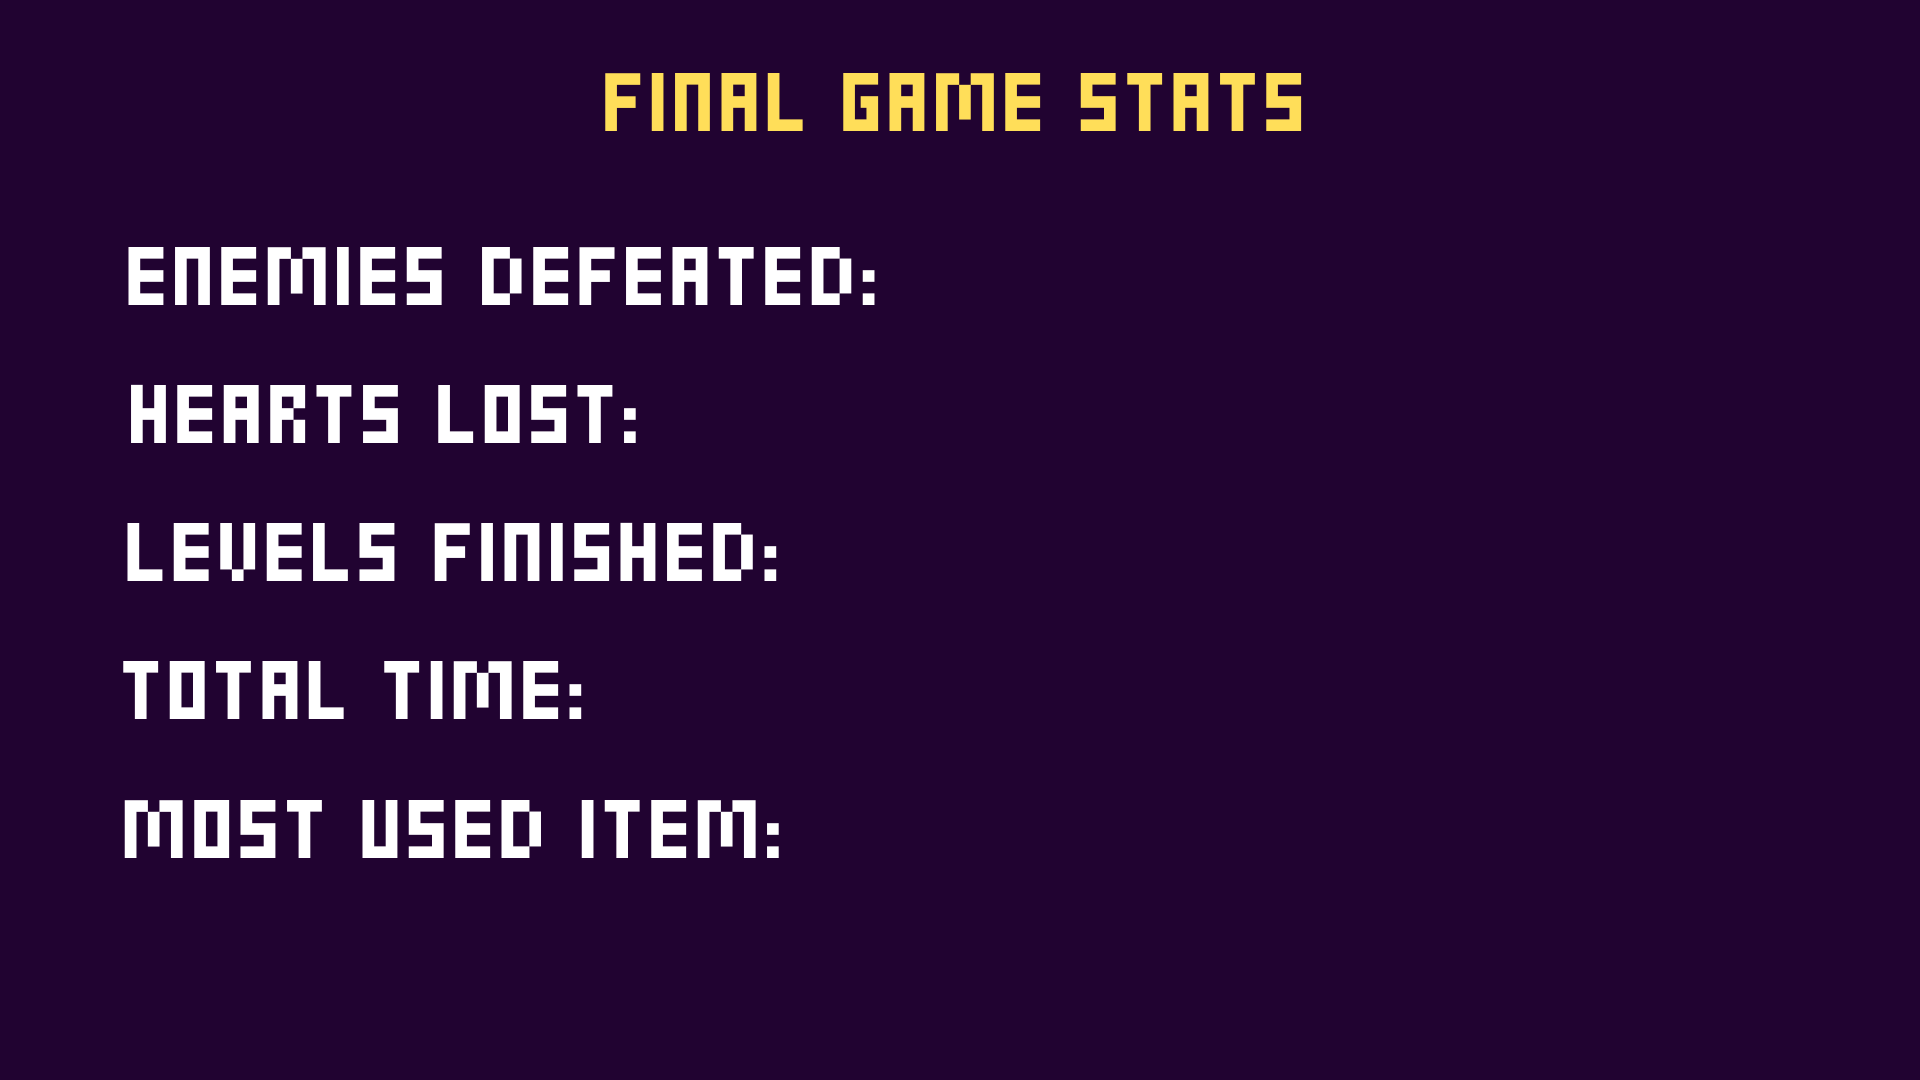
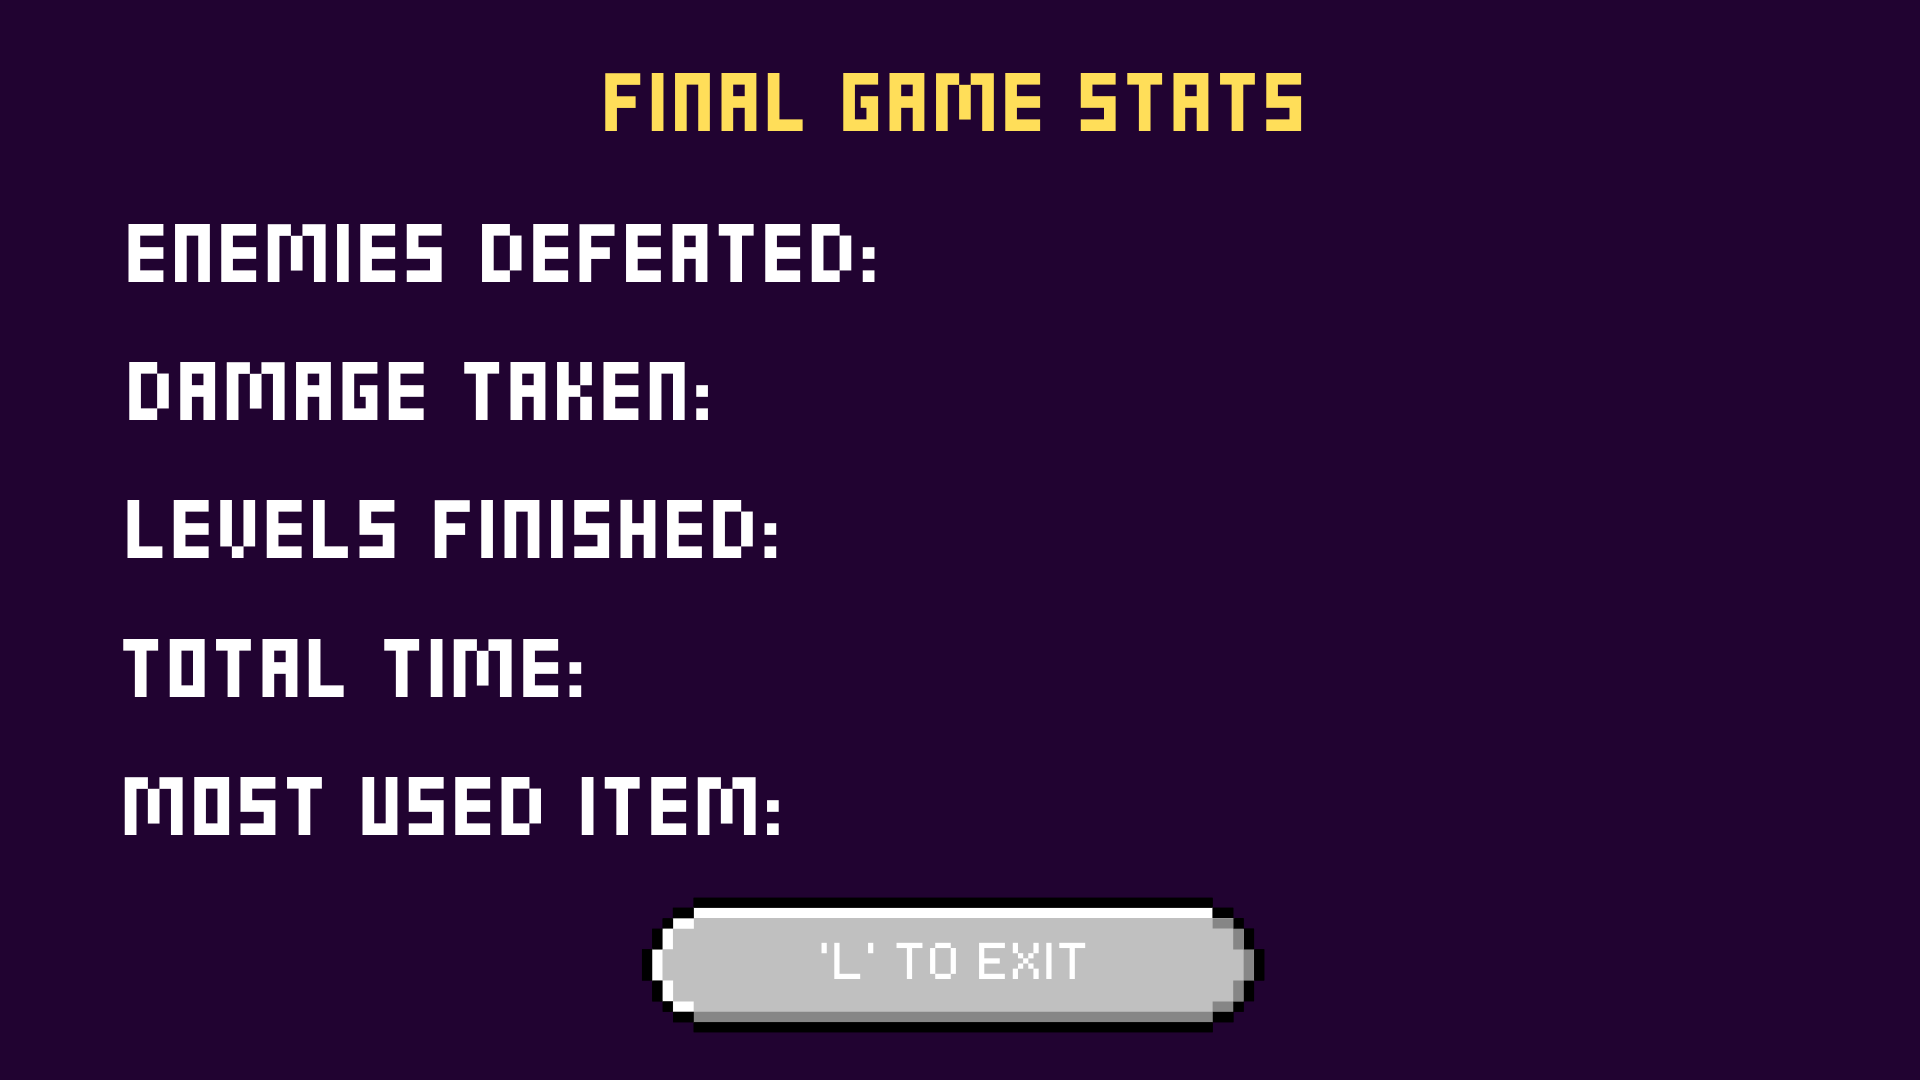
Updated stats screen, ending screen. Got rid of game over panel - there's now only a single game end panel.

diff --git a/src/Handlers/LevelHandler.java b/src/Handlers/LevelHandler.java
@@ -24,6 +24,11 @@ public class LevelHandler {
     int currentLevelIndex;
     MusicHandler musicHandler;
 
+    // Game stats
+    public static int enemiesKilled = 0;
+    public static double heartsLost = 0.0;
+    public static int levelsCompleted = 0;
+
     public boolean levelComplete = false;
 
     int numLevels;
@@ -123,10 +128,10 @@ public class LevelHandler {
 
     public void checkForDeath(Player player, CollisionHandler collisionHandler, InstantKill ghost, EternalSnail snail) {
         if(player.getHealth() <= 0) {
-            Main.updateGameState(3);
+            Main.updateGameState(4);
         }
         if(collisionHandler.enemyPlayerCollision(ghost, player) || collisionHandler.enemyPlayerCollision(snail, player) ) {
-            Main.updateGameState(3);
+            Main.updateGameState(4);
         }
     }
 
@@ -173,6 +178,7 @@ public class LevelHandler {
                 if(!levelComplete && currentLevel.doorUnlocked) {
                     levelComplete = true;
                     Main.gamePanel.pauseGame();
+                    LevelHandler.levelsCompleted++;
                     Main.updateGameState(7);
                 }
             }
@@ -186,12 +192,18 @@ public class LevelHandler {
 
         // Removes enemies if they die
         for (Enemy enemy: currentLevel.contactEnemies) {
-            if (enemy.getHealth() <= 0 && enemy.freezeTimer <= 0) currentLevel.enemiesToRemove.add(enemy);
+            if (enemy.getHealth() <= 0 && enemy.freezeTimer <= 0) {
+                currentLevel.enemiesToRemove.add(enemy);
+                enemiesKilled++;
+            }
         }
         currentLevel.contactEnemies.removeAll(currentLevel.enemiesToRemove);
 
         for (Enemy enemy: currentLevel.archerEnemies) {
-            if (enemy.getHealth() <= 0 && enemy.freezeTimer <= 0) currentLevel.archerEnemiesToRemove.add(enemy);
+            if (enemy.getHealth() <= 0 && enemy.freezeTimer <= 0) {
+                currentLevel.archerEnemiesToRemove.add(enemy);
+                enemiesKilled++;
+            }
         }
         currentLevel.archerEnemies.removeAll(currentLevel.enemiesToRemove);
     }
@@ -240,7 +252,7 @@ public class LevelHandler {
         levels[2] = new Level("Maps/Level3Map.json", "Assets/Tilesets/facilityTileset.png", nonWalkableValues3(), 16, 2);
         levels[3] = new Level("Maps/Level4Map.json", "Assets/Tilesets/catacombTileset.png", nonWalkableValues4(), 16, 3);
         levels[4] = new Level("Maps/Level5Map.json", "Assets/Tilesets/cuteTileset.png", nonWalkableValues5(), 16, 4);
-        levels[0] = new Level("Maps/Level6Map.json", "Assets/Tilesets/catacombTileset.png", nonWalkableValues6(), 16, 5);
+        levels[5] = new Level("Maps/Level6Map.json", "Assets/Tilesets/catacombTileset.png", nonWalkableValues6(), 16, 5);
 
     }
 

diff --git a/src/System/Main.java b/src/System/Main.java
@@ -13,12 +13,14 @@ public class Main {
      */
     public static GamePanel gamePanel;
     public static MenuPanel menuPanel;
-    public static GameOverPanel gameOverPanel = new GameOverPanel();
-    public static WinPanel winPanel = new WinPanel();
+    public static GameEndPanel gameEndPanel;
     public static HelpPanel helpPanel;
     public static CharacterSelectionPanel characterSelectionPanel;
     public static ShopPanel shopPanel;
     public static BuyPanel buyPanel;
+    public static StatsPanel statsPanel;
+
+    public static boolean gameWon = false;
 
     public static JFrame window = new JFrame();
 
@@ -59,10 +61,20 @@ public class Main {
                 if (start) gamePanel.initiateGamePanel();
                 break;
             case 3:
-                window.add(gameOverPanel);
+                statsPanel = new StatsPanel();
+                window.add(statsPanel);
+                statsPanel.requestFocusInWindow();
                 break;
             case 4:
-                window.add(winPanel);
+                Main.gamePanel.pauseGame(); // Pause game
+
+                // Display image based on win or lose
+                String img;
+                if (gameWon) img = "gameWon.png";
+                else img = "gameOver.png";
+                gameEndPanel = new GameEndPanel(img);
+                window.add(gameEndPanel);
+                gameEndPanel.requestFocusInWindow();
                 break;
             case 5:
                 helpPanel = new HelpPanel();

diff --git a/src/System/Panels/StatsPanel.java b/src/System/Panels/StatsPanel.java
@@ -1,0 +1,49 @@
+package System.Panels;
+
+import Handlers.LevelHandler;
+
+import java.awt.*;
+
+public class StatsPanel extends AbstractPanel {
+
+    // Get screen width and height
+    public static final int screenWidth = (int)Toolkit.getDefaultToolkit().getScreenSize().getWidth();
+    public static final int screenHeight = (int)Toolkit.getDefaultToolkit().getScreenSize().getHeight();
+
+    Font font = new Font("Courier", Font.PLAIN, 50);
+
+    /**
+     * Panel to show game stats
+     */
+    public StatsPanel() {
+        super("gameStats.png");
+    }
+
+    @Override
+    public void handleChoice() {
+        if (keyHandler.shopExit) {
+            timer.stop();
+            System.exit(0); // Exit game!
+        }
+
+    }
+
+    @Override
+    public void addButtonsToArrayList() {}
+
+    @Override
+    public void paintComponent(Graphics g) {
+
+        // Draws the fullscreen menu image
+        Graphics2D g2 = (Graphics2D) g;
+        g2.drawImage(bgImage, 0, 0, screenWidth, screenHeight, null);
+
+        g2.setPaint(Color.WHITE);
+        g2.setFont(font);
+        g2.drawString(String.valueOf(LevelHandler.enemiesKilled), screenWidth/2, screenHeight/4);
+        g2.drawString(String.valueOf(LevelHandler.heartsLost), screenWidth/2, screenHeight/4 + screenHeight/8);
+        g2.drawString(String.valueOf(LevelHandler.levelsCompleted), screenWidth/2, screenHeight/4 + screenHeight/8 * 2);
+        // TOTAL TIME
+        // FAV ITEM
+    }
+}

diff --git a/src/Handlers/Attacks/DamageDealer.java b/src/Handlers/Attacks/DamageDealer.java
@@ -4,6 +4,7 @@ import Attacks.Attack;
 import Entities.Enemies.Enemy;
 import Entities.Players.Player;
 import Handlers.CollisionHandler;
+import Handlers.LevelHandler;
 import World.Level;
 
 import java.util.ArrayList;
@@ -28,6 +29,7 @@ public class DamageDealer {
             if (player.type == 'z') {
                 enemy.isHit(0.5);
             }
+            LevelHandler.heartsLost += enemy.damage;
             player.isHit(enemy.damage, false);
         }
     }
@@ -37,6 +39,7 @@ public class DamageDealer {
         for (int i = 0; i < attackHandler.enemyAttacks.size(); i++) {
             Attack enemyAttack = attackHandler.enemyAttacks.get(i);
                 if (collisionHandler.playerWithAttackCollision(player, enemyAttack) && !player.isHit && enemyAttack.isActive) {
+                    LevelHandler.heartsLost += enemyAttack.damage;
                     player.isHit(enemyAttack.damage, false);
                     indicesToRemove.add(i);
                     break;
@@ -88,7 +91,7 @@ public class DamageDealer {
 
         //REMOVE IN REVERSE ORDER!!
         for (int i = indicesToRemove.size() - 1; i >= 0; i--) {
-            attackHandler.playerAttacks.get((int) indicesToRemove.get(i)).isActive = false;
+            attackHandler.playerAttacks.get(indicesToRemove.get(i)).isActive = false;
         }
 
     }

diff --git a/src/System/Panels/GameEndPanel.java b/src/System/Panels/GameEndPanel.java
@@ -1,0 +1,22 @@
+package System.Panels;
+
+import System.Main;
+
+public class GameEndPanel extends AbstractPanel {
+
+    public GameEndPanel(String imgSource) {
+        super(imgSource);
+    }
+
+    @Override
+    public void handleChoice() {
+        if (keyHandler.shopExit) {
+            timer.stop();
+            Main.updateGameState(3); // Go to statistics screen
+            System.out.println("DONE!");
+        }
+    }
+
+    @Override
+    public void addButtonsToArrayList() {}
+}

diff --git a/src/Handlers/HUD/HealthHandler.java b/src/Handlers/HUD/HealthHandler.java
@@ -208,7 +208,7 @@ public class HealthHandler {
 
         //CHECK DEAD
         if(currentHearts <= 0) {
-            Main.updateGameState(3);
+            Main.updateGameState(4);
         }
 
         //DETERMINE IF FULL-->HALF
